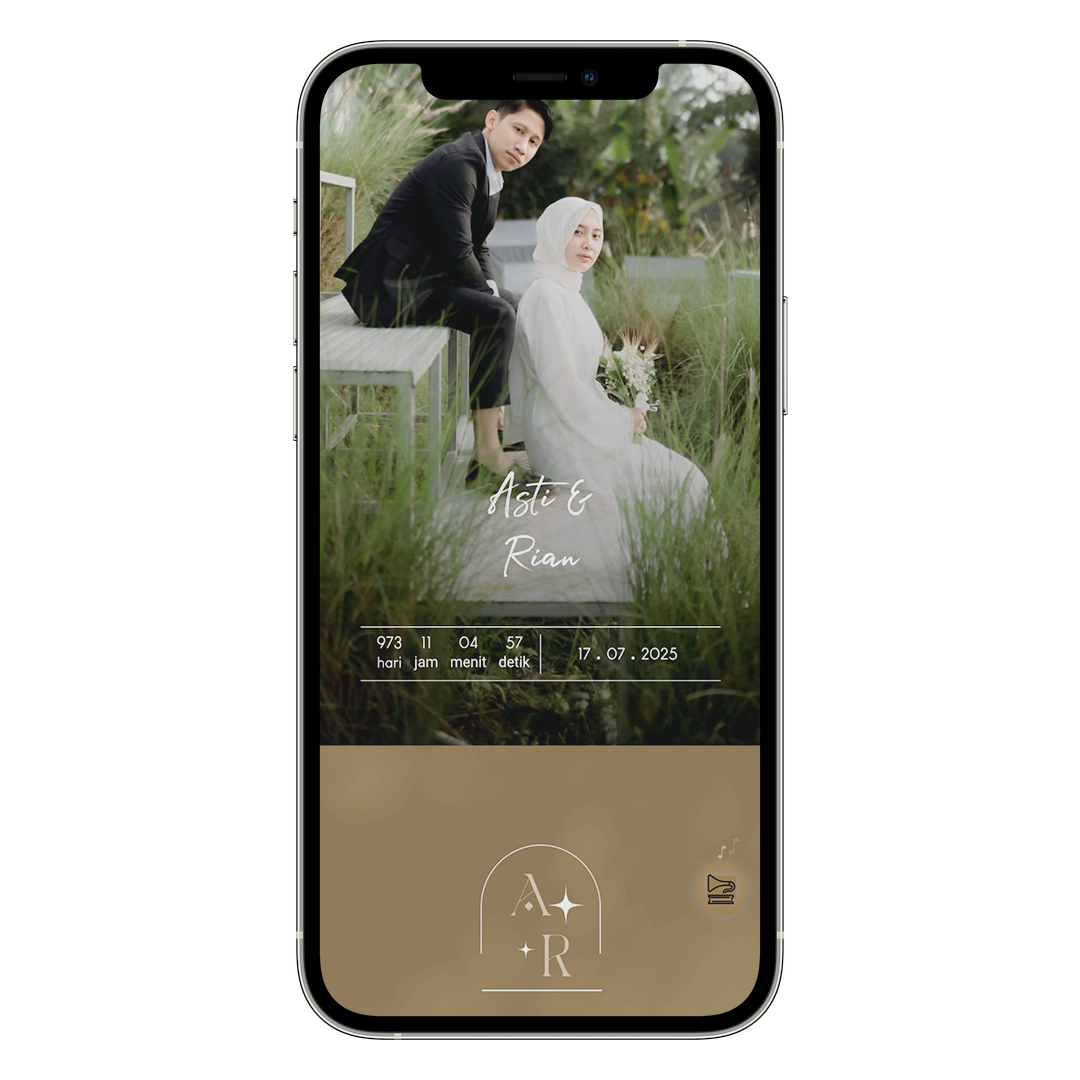
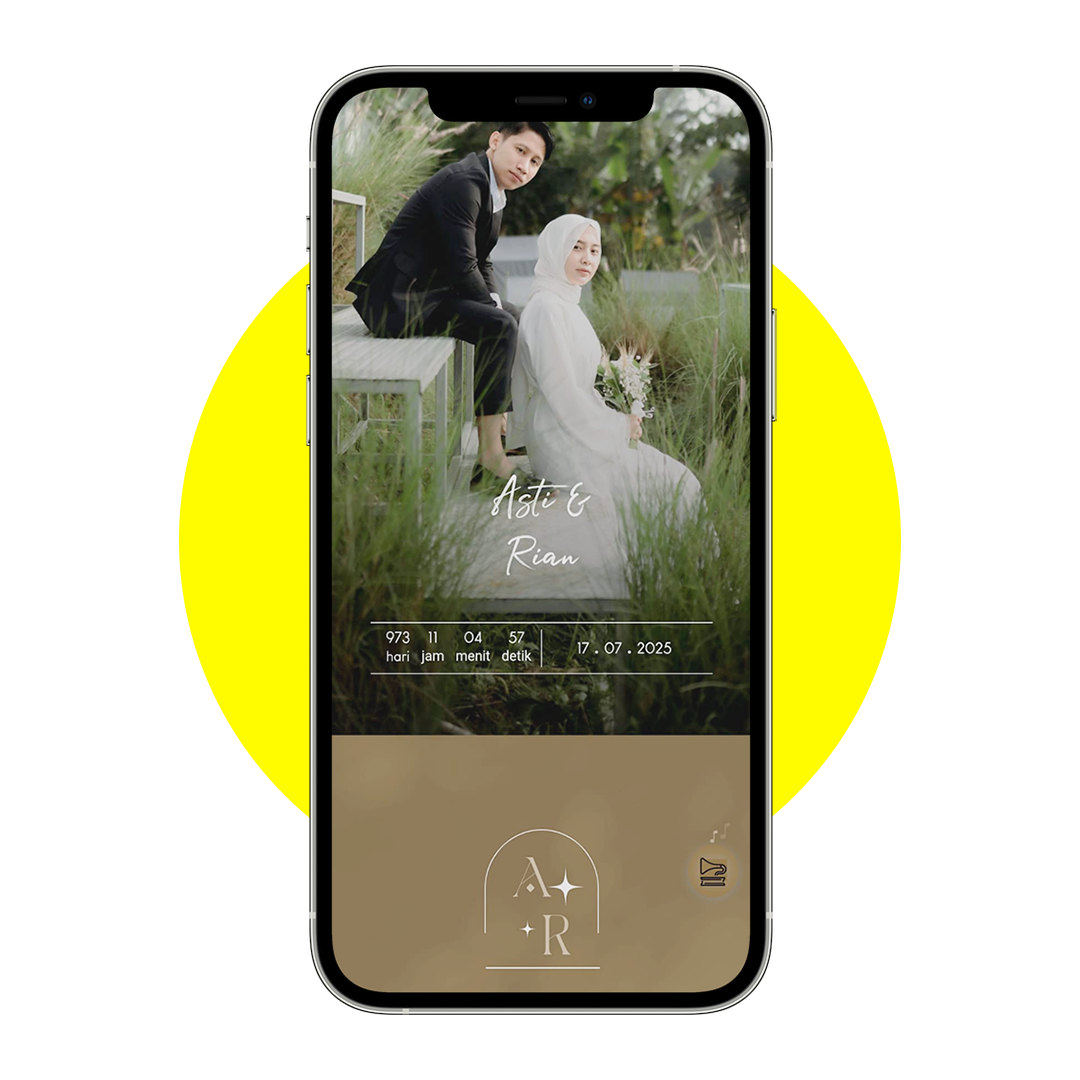
add template

Changed region(s): [[0.1528, 0.0306, 0.8556, 0.9778], [0.4278, 0.825, 0.4583, 0.8556]]

diff --git a/index.html b/index.html
@@ -49,7 +49,7 @@
         </div>
 
         <div class="home-img">
-            <img src="img/mockup-2.png">
+            <img src="img/mockup.png">
 
         </div>
     </section>
@@ -97,18 +97,17 @@
                     <p>Lokasi</p>
                 </div>
             </div>
-
         </div>
     </section>
 
     <!---about section--->
     <section class="about" id="about">
         <div class="about-img">
-            <img src="img/template-02.png">
+            <img src="img/konten-4.jpeg">
         </div>
 
         <div class="about-text">
-            <h2>Web Invitation <br> undangan kekinian</h2>
+            <h2>Digital<br>Invitation</h2>
             <p>Undang orang-orang terdekat dalam momen kebahagiaan pernikahan Anda dengan cara yang unik dan menarik. Coba sekarang juga, GRATIS!</p>
             <a href="#" class="btn">Order Now</a>
         </div>
@@ -123,10 +122,9 @@
         <!-- Container -->
         <div class="products-container">
             <div class="box">
-                <img src="img/template-02.png" alt="">
+                <img src="img/008.png" alt="">
                 <h3>Template-001</h3>
                 <div class="content">
-                    <span>Ekslusif</span>
                     <a href="https://wa.me/6287773358820">Pesan</a>
                     <a href="https://our-wedding.link/portofolio/preview/YGBH_andreas%26yemima">Preview</a>
                 </div>
@@ -135,7 +133,6 @@
                 <img src="img/template-03.png" alt="">
                 <h3>Template-002</h3>
                 <div class="content">
-                    <span>Ekslusif</span>
                     <a href="https://wa.me/6287773358820">Pesan</a>
                     <a href="https://our-wedding.link/portofolio/preview/UrzU_asti-rian">Preview</a>
                 </div>
@@ -144,7 +141,6 @@
                 <img src="img/template-04.png" alt="">
                 <h3>Template-003</h3>
                 <div class="content">
-                    <span>Basic</span>
                     <a href="https://wa.me/6287773358820">Pesan</a>
                     <a href="https://our-wedding.link/portofolio/preview/riXU_astry%26irfan">Preview</a>
                 </div>
@@ -153,44 +149,51 @@
                 <img src="img/template-05.png" alt="">
                 <h3>Template-004</h3>
                 <div class="content">
-                    <span>Basic</span>
                     <a href="https://wa.me/6287773358820">Pesan</a>
                     <a href="https://our-wedding.link/portofolio/preview/aGv6_rika%26aziz">Preview</a>
                 </div>
             </div>
             <div class="box">
-                <img src="img/template-02.png" alt="">
+                <img src="img/004.png" alt="">
+                <h3>Template-005</h3>
+                <div class="content">
+                    <a href="https://wa.me/6287773358820">Pesan</a>
+                    <a href="https://our-wedding.link/portofolio/preview/ck4t_aulia%26sopia">Preview</a>
+                </div>
+            </div>
+            <div class="box">
+                <img src="img/005.png" alt="">
                 <h3>Template-006</h3>
                 <div class="content">
-                    <span>Eklusif</span>
                     <a href="https://wa.me/6287773358820">Pesan</a>
                     <a href="https://our-wedding.link/portofolio/preview/aGv6_rika%26aziz">Preview</a>
                 </div>
             </div>
-            <!-- <div class="box">
-                <img src="img/template-03.png" alt="">
-                <h3>Flower Sunny</h3>
+            <div class="box">
+                <img src="img/006.png" alt="">
+                <h3>Template-007</h3>
                 <div class="content">
-                    <span>Rp129.000</span>
-                    <a href="#">Preview</a>
+                    <a href="https://wa.me/6287773358820">Pesan</a>
+                    <a href="https://our-wedding.link/portofolio/preview/I2fp_nico-christin">Preview</a>
                 </div>
             </div>
             <div class="box">
-                <img src="img/template-05.png" alt="">
-                <h3>Flower Sunny</h3>
+                <img src="img/007.png" alt="">
+                <h3>Template-008</h3>
                 <div class="content">
-                    <span>Rp129.000</span>
-                    <a href="#">Preview</a>
+                    <a href="https://wa.me/6287773358820">Pesan</a>
+                    <a href="https://our-wedding.link/portofolio/preview/9DgU_lida%26dharma">Preview</a>
                 </div>
             </div>
             <div class="box">
-                <img src="img/22.png" alt="">
-                <h3>Flower Sunny</h3>
+                <img src="img/009.png" alt="">
+                <h3>Template-009</h3>
                 <div class="content">
-                    <span>Rp129.000</span>
-                    <a href="#">Preview</a>
+                    <a href="https://wa.me/6287773358820">Pesan</a>
+                    <a href="https://our-wedding.link/portofolio/preview/D1a7_lulu%26boris">Preview</a>
                 </div>
-            </div> -->
+            </div>
+
         </div>
     </section>
 
@@ -227,7 +230,7 @@
                 </div>
                 <div class="col-3">
                     <i class="bi bi-quote"></i>
-                    <p>Design nya berasa mahal, padahal murah</p>
+                    <p>Design nya berasa mahal, dengan harga terjangkau</p>
                     <div class="rating">
                         <i class="bi bi-star-fill"></i>
                         <i class="bi bi-star-fill"></i>
@@ -412,6 +415,8 @@
 
     <!---custom js link--->
     <script type="text/javascript" src="js/script.js"></script>
+    <script src="https://cdn.jsdelivr.net/npm/@popperjs/core@2.11.6/dist/umd/popper.min.js" integrity="sha384-oBqDVmMz9ATKxIep9tiCxS/Z9fNfEXiDAYTujMAeBAsjFuCZSmKbSSUnQlmh/jp3" crossorigin="anonymous"></script>
+    <script src="https://cdn.jsdelivr.net/npm/bootstrap@5.2.2/dist/js/bootstrap.min.js" integrity="sha384-IDwe1+LCz02ROU9k972gdyvl+AESN10+x7tBKgc9I5HFtuNz0wWnPclzo6p9vxnk" crossorigin="anonymous"></script>
 
 </body>
 

diff --git a/css/style.css b/css/style.css
@@ -164,11 +164,6 @@
             margin-top: 4rem;
         }
         
-        .cointainer-img img {
-            display: grid;
-            height: 20px;
-        }
-        
         .c-mainbx {
             display: flex;
             align-items: center;
@@ -186,6 +181,12 @@
             font-weight: 500;
         }
         
+        .container-img img {
+            position: relative;
+            width: 30%;
+            height: auto;
+        }
+        
         .c-mainbx:hover {
             transform: translateX(10px);
             cursor: pointer;
@@ -200,11 +201,11 @@
         
         .about-img img {
             height: auto;
-            width: 50%;
+            width: 100%;
         }
         
         .about-text h2 {
-            font-size: var(--h2-font);
+            font-size: var(--big-font);
             margin-bottom: 2rem;
             line-height: 1.3;
             align-items: center;
@@ -455,7 +456,7 @@
             object-fit: contain;
             object-position: center;
             padding: 20px;
-            background: #ebebeb;
+            background: var(--main-color);
             border-radius: 0.5rem;
         }
         
@@ -481,7 +482,7 @@
         }
         
         .products-container .box .content a {
-            padding: 0 1rem;
+            padding: 0 2rem;
             color: var(--text-color);
             border: 2px solid var(--main-color);
             border-radius: 4px;
@@ -551,12 +552,3 @@
             min-width: 250px;
             margin-bottom: 30px;
         }
-        /* .circle {
-    position: absolute;
-    top: 0;
-    left: 0;
-    width: 100%;
-    height: 100%;
-    background: #ffc23d;
-    clip-path: circle(300px at right 300px);
-} */
